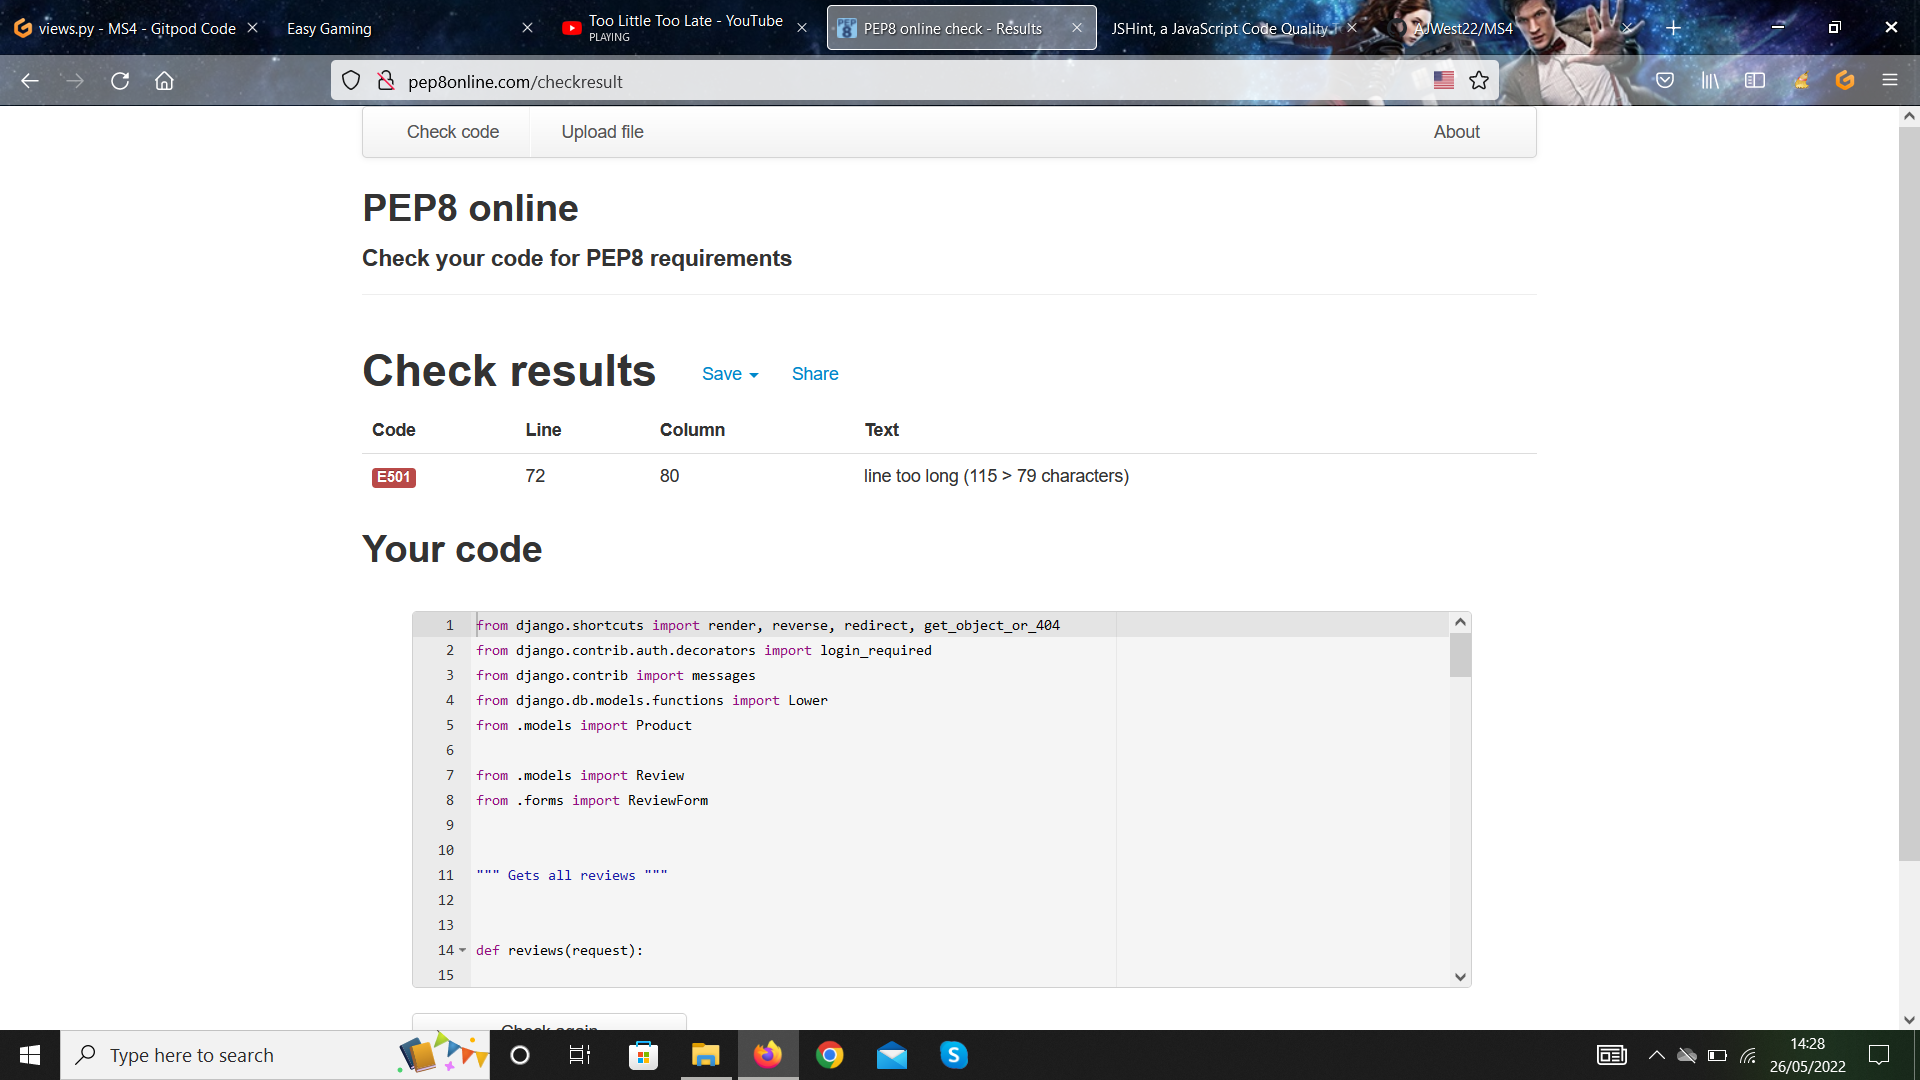
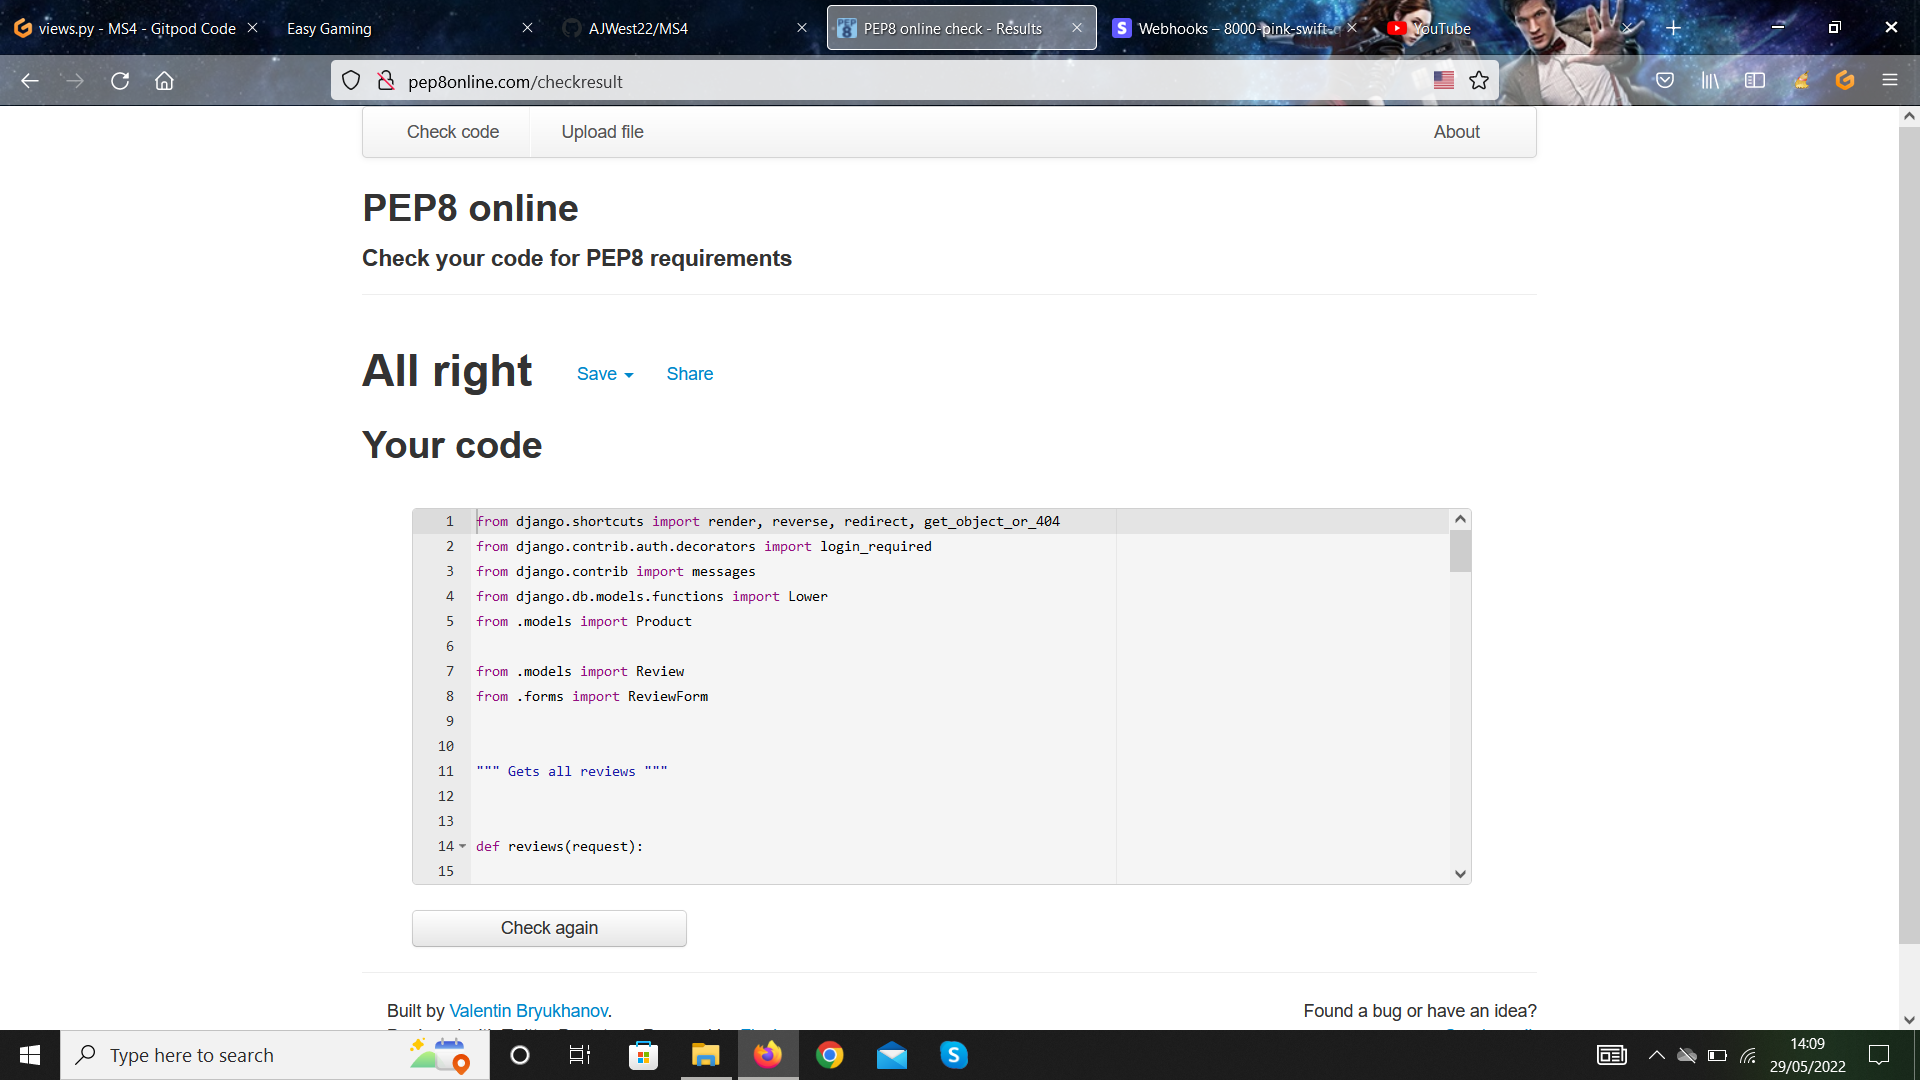
Update reviews views file and amend image in README

diff --git a/reviews/views.py b/reviews/views.py
@@ -69,7 +69,10 @@ def edit_review(request, review_id):
             messages.success(request, 'Your review has been updated!')
             return redirect('reviews')
         else:
-            messages.error(request, 'Your review failed to update. Please check the form is filled out correctly.')
+            messages.error(
+                request, 'Your review failed to update. \
+                Please check the form is filled out correctly.'
+            )
     else:
         form = ReviewForm(instance=review)
         messages.info(request, f'You are editing {review.id}')
